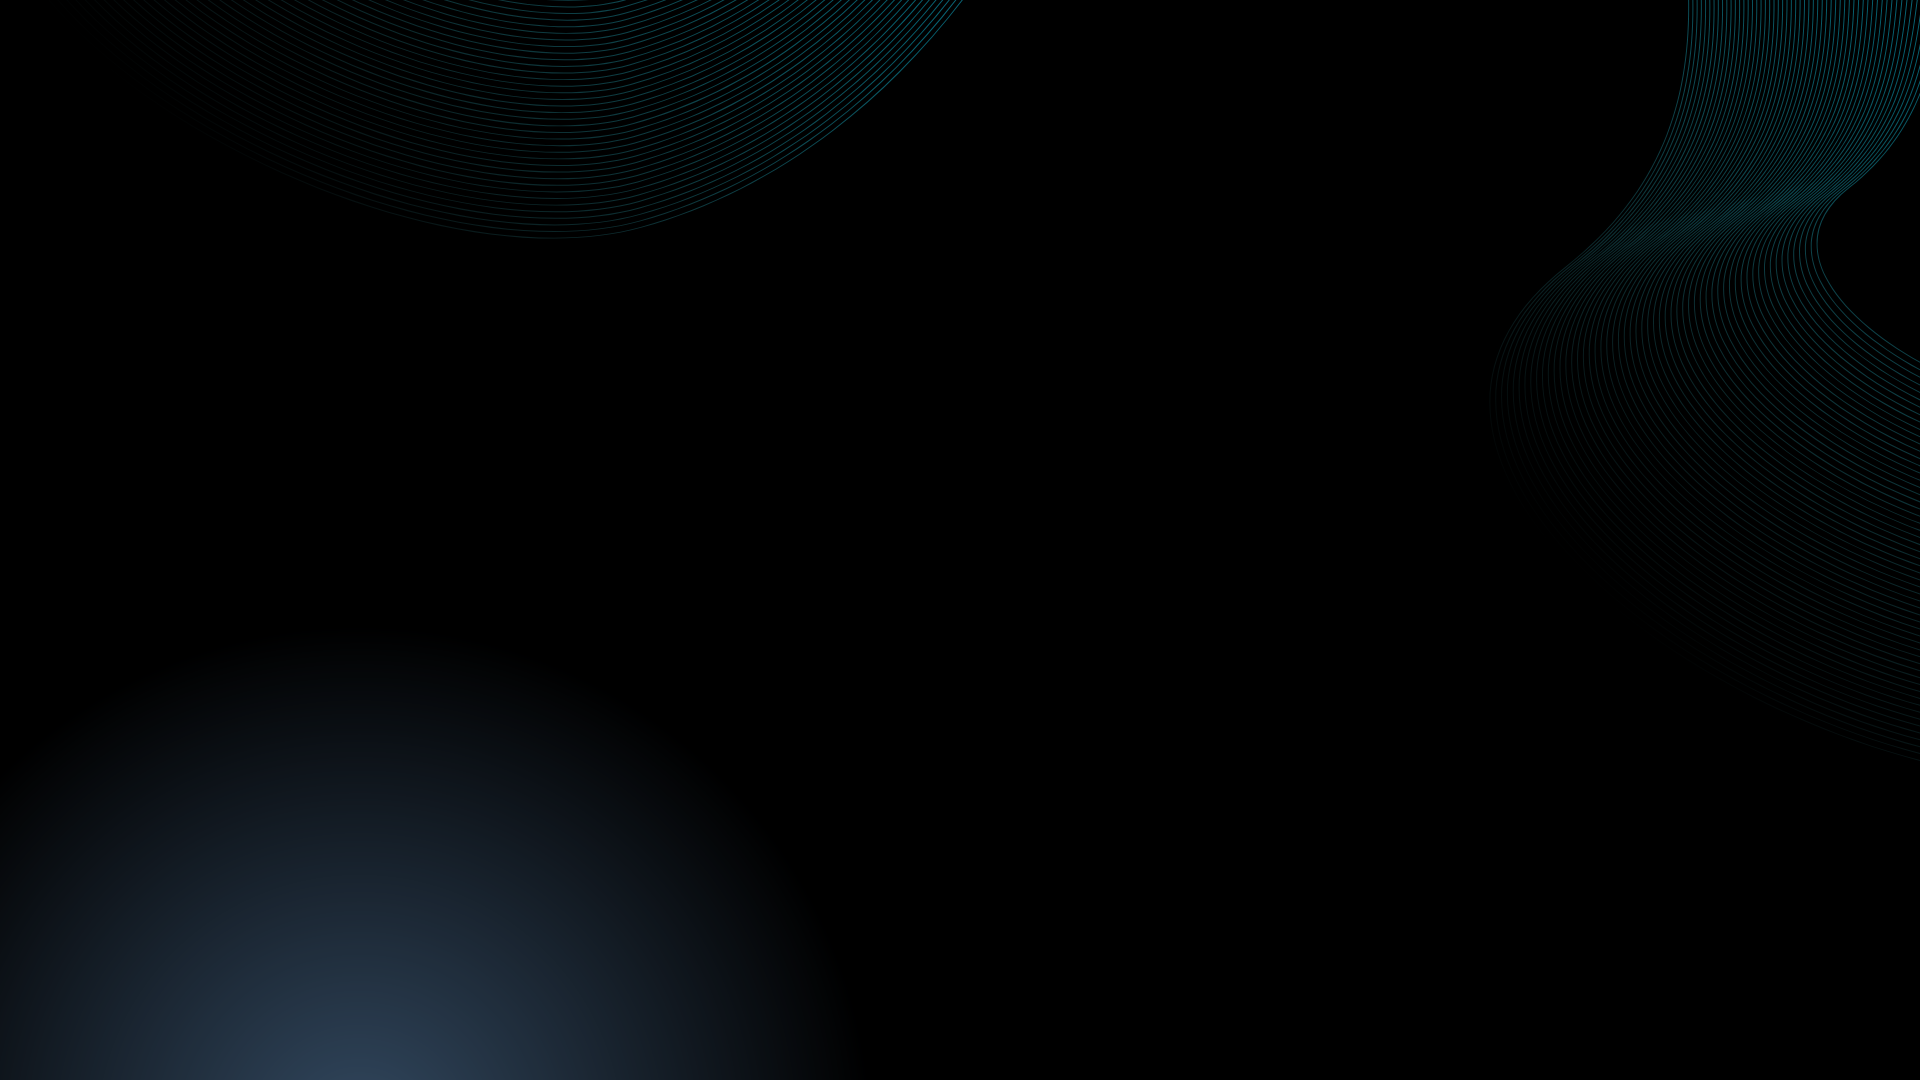
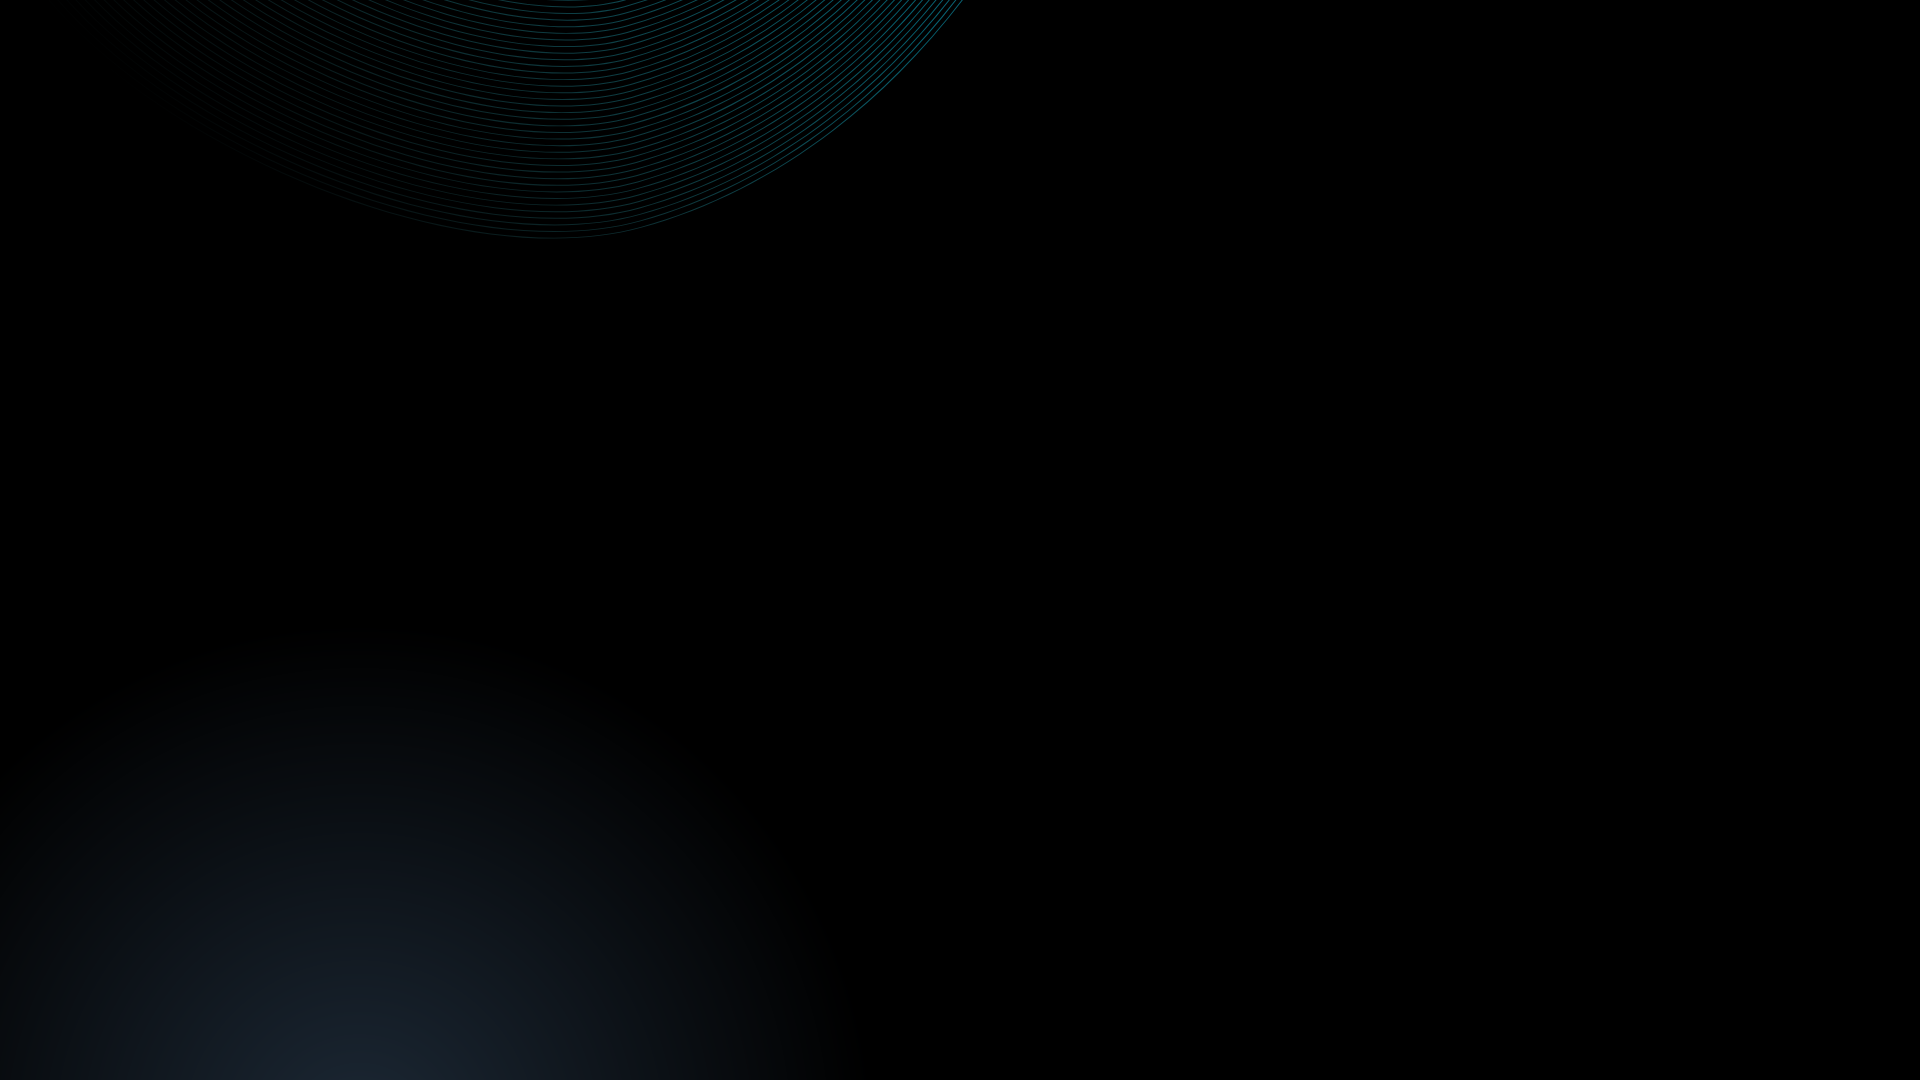
Refactor HeroSection component for improved responsiveness and background handling

Changed region(s): [[0.8125, 0.0, 1.0, 0.5806], [0.0625, 0.825, 0.3125, 1.0]]

diff --git a/src/components/HeroSection.tsx b/src/components/HeroSection.tsx
@@ -14,105 +14,80 @@ export default function HeroSection() {
   return (
     <Box
       sx={{
-        position: "relative", // Permet de superposer les éléments
-        minHeight: "100vh", // Prend tout l'écran
-        overflow: "hidden", // Cache les débordements
-        display: "flex",
-        alignItems: "center",
-        justifyContent: "center",
-        color: mode === "light" ? "#000000" : "#ffffff", // Couleur du texte
-        padding: 4,
+        position: "relative",
+        minHeight: "100vh",
+        overflow: "hidden",
+        color: mode === "light" ? "#000000" : "#ffffff",
+        padding: 0,
+        margin: 0,
+        backgroundImage:
+          mode === "light"
+            ? "url('/background-blanc.png')" // Fond unique en mode clair
+            : "url('/background-noir.png')", // Pas de fond supplémentaire en mode sombre
+        backgroundSize: "cover",
+        backgroundPosition: "center",
+        backgroundRepeat: "no-repeat",
       }}
     >
-      {/* Arrière-plan */}
-      {isMobile ? (
-        <Box
-          sx={{
-            position: "absolute",
-            top: 0,
-            left: 0,
-            width: "100%",
-            height: "100%",
-            backgroundImage:
-              mode === "dark"
-                ? "url('/background-noir.png')" // Image pour le fond noir
-                : "url('/background-blanc.png')", // Image pour le fond blanc
-            backgroundSize: "cover", // Recouvre tout le conteneur
-            backgroundPosition: "center", // Centre l'image
-            backgroundRepeat: "no-repeat", // Pas de répétition
-            zIndex: -1, // Place l'image derrière les autres éléments
-          }}
-        />
-      ) : (
-        mode === "dark" ? (
-          <video
-            autoPlay
-            loop
-            muted
-            playsInline
-            style={{
-              position: "absolute",
-              top: 0,
-              left: 0,
-              width: "100%",
-              height: "100%",
-              objectFit: "cover", // Recouvre tout le conteneur
-              zIndex: -1, // Place la vidéo derrière les autres éléments
-            }}
-          >
-            <source src="/background-dark-video.mp4" type="video/mp4" />
-            Your browser does not support the video tag.
-          </video>
-        ) : (
-          <Box
-            sx={{
-              position: "absolute",
-              top: 0,
-              left: 0,
-              width: "100%",
-              height: "100%",
-              backgroundImage: "url('/background-blanc.png')", // Image pour le mode clair
-              backgroundSize: "cover", // Recouvre tout le conteneur
-              backgroundPosition: "center", // Centre l'image
-              backgroundRepeat: "no-repeat", // Pas de répétition
-              zIndex: -1, // Place l'image derrière les autres éléments
-            }}
-          />
-        )
-      )}
-
-      {/* Contenu */}
-      <Grid container spacing={2} alignItems="center">
+      <Grid container sx={{ height: "100%" }}>
         {/* Section Gauche : Texte et Boutons */}
-        <Grid item xs={12} md={6}>
-          {/* Texte principal */}
+        <Grid
+          item
+          xs={12}
+          md={6}
+          sx={{
+            display: "flex",
+            flexDirection: "column",
+            justifyContent: "center",
+            alignItems: isMobile ? "center" : "flex-start", // Centre sur mobile, aligné à gauche sur desktop
+            height: "100vh",
+            padding: isMobile ? "2rem" : "4rem",
+          }}
+        >
           <Typography
             variant="h2"
             sx={{
               fontWeight: "bold",
-              fontSize: isMobile ? "3.5rem" : "6rem", // Taille réduite sur mobile
+              fontSize: isMobile ? "3rem" : "5rem", // Taille ajustée pour mobile
               lineHeight: 1.2,
-              marginBottom: 4,
+              textAlign: isMobile ? "center" : "left", // Texte centré sur mobile
+              marginBottom: "1.5rem",
+              marginLeft: isMobile ? "0" : "5%", // Plus à gauche sur desktop
             }}
           >
-            Ready to make <br />
-            <span style={{ color: "#6a98c9", fontSize: isMobile ? "4rem" : "6.5rem" }}>some noise?</span>
+            Ready to make{" "}
+            <span
+              style={{
+                display: "inline-block", // Pour aligner correctement
+                color: "#6a98c9",
+                fontSize: isMobile ? "3.5rem" : "5.5rem", // Plus grand pour "some noise?"
+              }}
+            >
+              some noise?
+            </span>
           </Typography>
 
-          {/* Boutons */}
-          <Box display="flex" gap={3} flexDirection={isMobile ? "column" : "row"}>
+          <Box
+            sx={{
+              display: "flex",
+              flexDirection: isMobile ? "column" : "row",
+              gap: isMobile ? "1rem" : "2rem",
+              alignItems: isMobile ? "center" : "flex-start",
+              marginLeft: isMobile ? "0" : "5%", // Boutons alignés avec le texte
+            }}
+          >
             <Button
               variant="outlined"
               sx={{
                 borderColor: mode === "light" ? "#000000" : "#ffffff",
                 color: mode === "light" ? "#000000" : "#ffffff",
-                fontSize: isMobile ? "1rem" : "1.5rem", // Taille réduite sur mobile
-                padding: isMobile ? "10px 20px" : "15px 30px", // Padding réduit sur mobile
+                fontSize: isMobile ? "0.9rem" : "1.2rem", // Taille ajustée pour mobile
+                padding: isMobile ? "0.8rem 1.5rem" : "1rem 2rem",
                 textTransform: "none",
                 display: "flex",
                 alignItems: "center",
                 justifyContent: "center",
-                gap: 1,
+                gap: "0.5rem",
                 "&:hover": {
                   borderColor: "#00d4ff",
                   color: "#00d4ff",
@@ -120,53 +95,84 @@ export default function HeroSection() {
               }}
             >
               <span>Explore</span>
-              <KeyboardArrowDownIcon sx={{ fontSize: isMobile ? "1.5rem" : "2rem" }} /> {/* Taille réduite sur mobile */}
+              <KeyboardArrowDownIcon sx={{ fontSize: isMobile ? "1.2rem" : "1.5rem" }} />
             </Button>
             <Button
               variant="outlined"
               sx={{
                 borderColor: mode === "light" ? "#000000" : "#ffffff",
                 color: mode === "light" ? "#000000" : "#ffffff",
-                fontSize: isMobile ? "1rem" : "1.5rem", // Taille réduite sur mobile
-                padding: isMobile ? "10px 20px" : "15px 30px", // Padding réduit sur mobile
+                fontSize: isMobile ? "0.9rem" : "1.2rem",
+                padding: isMobile ? "0.8rem 1.5rem" : "1rem 2rem",
                 textTransform: "none",
                 display: "flex",
                 alignItems: "center",
                 justifyContent: "center",
-                gap: 1,
+                gap: "0.5rem",
                 "&:hover": { borderColor: "#00d4ff", color: "#00d4ff" },
               }}
             >
               <span>Marketplace</span>
-              <ArrowForwardIcon sx={{ fontSize: isMobile ? "1.5rem" : "2rem" }} /> {/* Taille réduite sur mobile */}
+              <ArrowForwardIcon sx={{ fontSize: isMobile ? "1.2rem" : "1.5rem" }} />
             </Button>
           </Box>
         </Grid>
 
-        {/* Section Droite : Image du Robot */}
-        {!isMobile && ( // Masquer le robot sur mobile
+        {/* Section Droite : Vidéo et Robot */}
+        {!isMobile && (
           <Grid
             item
             xs={12}
             md={6}
             sx={{
-              textAlign: "center",
               position: "relative",
+              height: "100vh",
+              overflow: "hidden",
             }}
           >
+            {/* Vidéo en mode sombre */}
+            {mode === "dark" && (
+              <Box
+                sx={{
+                  position: "absolute",
+                  top: 0,
+                  right: 0,
+                  width: "100%",
+                  height: "100%",
+                }}
+              >
+                <video
+                  autoPlay
+                  loop
+                  muted
+                  playsInline
+                  style={{
+                    width: "100%",
+                    height: "100%",
+                    objectFit: "fill",
+                  }}
+                >
+                  <source src="/robot-background-video.mp4" type="video/mp4" />
+                  Your browser does not support the video tag.
+                </video>
+              </Box>
+            )}
+
+            {/* Robot visible dans tous les modes */}
             <Box
               sx={{
                 position: "absolute",
-                right: "45%", // Décalage du robot
-                bottom: "-100px", // Ajustement vertical
-                transform: "scale(1.5)", // Agrandissement du robot
+                top: "50%",
+                right: "50%",
+                transform: "translate(50%, -50%)",
+                zIndex: 1, // Place le robot au-dessus de la vidéo
               }}
             >
               <Image
-                src="/Vaultly.svg" // Remplacez par l'image du robot
+                src="/Vaultly.svg"
                 alt="Robot"
-                width={400}
-                height={400}
+                width={500}
+                height={500}
                 style={{ objectFit: "contain" }}
               />
             </Box>
